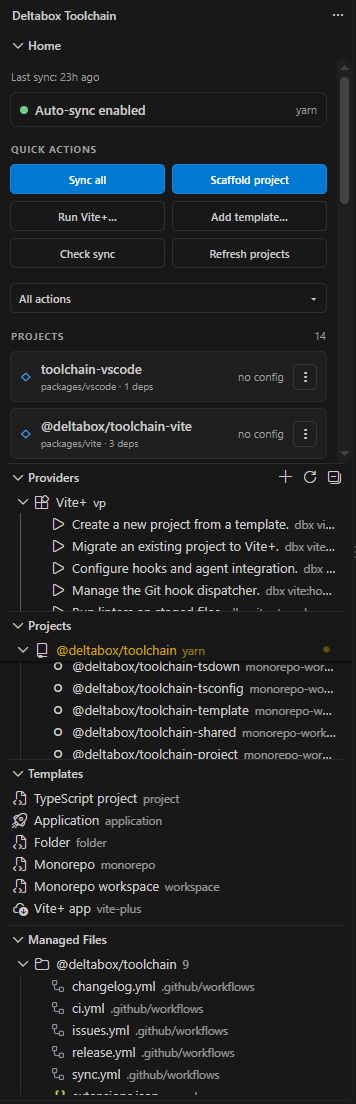
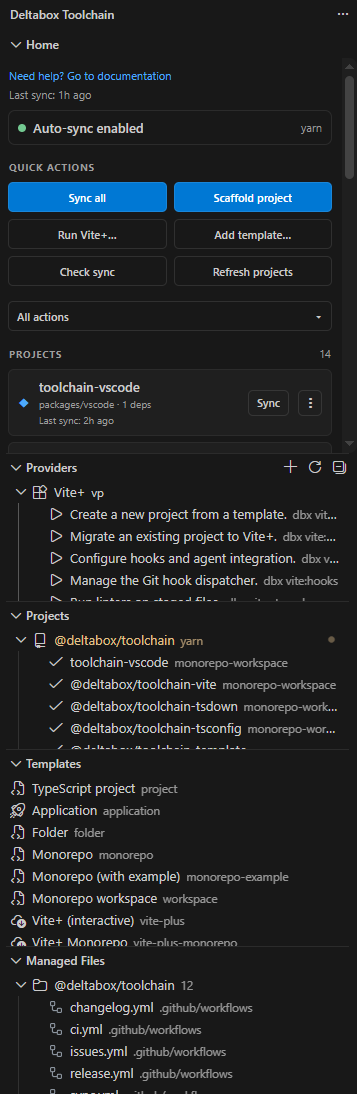
docs: update descriptions and vscode screenshot

diff --git a/apps/docs/.vitepress/config.ts b/apps/docs/.vitepress/config.ts
@@ -6,6 +6,8 @@ import llmstxt, { copyOrDownloadAsMarkdownButtons } from 'vitepress-plugin-llms'
 
 import pkg from '../../../package.json';
 
+const DESCRIPTION = "All-in-one development toolchain that let's you scaffold projects, generate and manage configs, tsconfigs, custom templates, syncing, changelogs, CI, Vite+, migrations, and more.";
+
 /** The prose `llms.txt` opens with, before the generated table of contents. */
 const LLMS_DETAILS = [
     '> If `https://toolchain.deltabox.studio` is unavailable, the same documentation is ' +
@@ -31,8 +33,7 @@ const LLMS_DETAILS = [
  */
 export default defineConfig({
     title: 'deltabox toolchain',
-    description:
-        'All-in-one toolchain: scaffold projects, manage configs, tsconfigs, changelogs and builds.',
+    description: DESCRIPTION,
     cleanUrls: true,
     // `/llms.txt` and `/llms-full.txt` are generated by the LLM plugin (not
     // VitePress pages), so the dead-link checker should ignore them.
@@ -51,10 +52,7 @@ export default defineConfig({
             llmstxt({
                 domain: 'https://toolchain.deltabox.studio',
                 title: 'deltabox toolchain',
-                description:
-                    'All-in-one, config-driven dev toolchain: one `dbx.config.ts` generates and ' +
-                    'manages tsconfigs, changelogs + release CI, Biome/Vite+ configs, VS Code ' +
-                    'settings, project scaffolding and migrations.',
+                description: DESCRIPTION,
                 details: LLMS_DETAILS,
             }) as any,
         ],

diff --git a/dbx.config.ts b/dbx.config.ts
@@ -28,7 +28,7 @@ export default defineConfig({
             homepage: 'https://toolchain.deltabox.studio',
             repo: 'https://github.com/deltabox-studio/toolchain',
             description:
-                'All-in-one, config-driven dev toolchain: scaffold projects, generate and manage configs, tsconfigs, syncing, changelogs and CI, run Vite+, and migrations.',
+                "All-in-one development toolchain that let's you scaffold projects, generate and manage configs, tsconfigs, custom templates, syncing, changelogs, CI, Vite+, migrations, and more.",
             nodeVersion: '22',
             packageManager: 'yarn',
             packageManagerVersion: '4.17.1',

diff --git a/src/cli/index.ts b/src/cli/index.ts
@@ -154,7 +154,7 @@ export function createCli(): Command {
     });
     program
         .name('dbx')
-        .description('All-in-one project toolchain: configs, tsconfigs, changelogs, scaffolding.')
+        .description('All-in-one project toolchain: configs, tsconfigs, changelogs, CI, templates, scaffolding, migrations.')
         .version(rootPkg.version, '-V, --version', 'Output the version number')
         .option('--log-level <level>', `Minimum log level (${LOG_LEVELS.join('|')}).`)
         .option('--no-color', 'Disable coloured output.')

diff --git a/README.md b/README.md
@@ -4,7 +4,7 @@
 [![tests](https://img.shields.io/github/actions/workflow/status/deltabox-studio/toolchain/ci.yml?label=tests&logo=github)](https://github.com/deltabox-studio/toolchain/actions/workflows/ci.yml)
 [![npm version](https://img.shields.io/npm/v/@deltabox/toolchain.svg?color=cb3837&label=npm)](https://www.npmjs.com/package/@deltabox/toolchain)
 
-All-in-one, config-driven dev toolchain: scaffold projects, generate and manage configs, tsconfigs, syncing, changelogs and CI, run Vite+, and migrations.
+All-in-one development toolchain that let's you scaffold projects, generate and manage configs, tsconfigs, custom templates, syncing, changelogs, CI, Vite+, migrations, and more.
 
 - Save and use templates (local/remote) so you never have to scaffold the same projects over and over again.
 - Generate config types, env variables, cli flags, markdown and JSON schemas, so your codebase stays consistent, validated and well-documented.
@@ -15,7 +15,7 @@ All-in-one, config-driven dev toolchain: scaffold projects, generate and manage 
 See the [list of features](#features).
 
 <div align="left">
-  <video controls>
+  <video width="1342" controls>
     <source src="./apps/docs/public/vscode-example.mp4" type="video/mp4">
   </video>
 </div>

diff --git a/packages/vscode/README.md b/packages/vscode/README.md
@@ -6,7 +6,7 @@
 
 Provides a sidebar for managing projects.
 
-All-in-one, config-driven dev toolchain: scaffold projects, generate and manage configs, tsconfigs, syncing, changelogs and CI, run Vite+, and migrations.
+All-in-one development toolchain that let's you scaffold projects, generate and manage configs, tsconfigs, custom templates, syncing, changelogs, CI, Vite+, migrations, and more.
 
 - Save and use templates (local/remote) so you never have to scaffold the same projects over and over again.
 - Generate config types, env variables, cli flags, markdown and JSON schemas, so your codebase stays consistent, validated and well-documented.
@@ -19,7 +19,7 @@ See the [list of features](https://github.com/deltabox-studio/toolchain#features
 See all the [commands](#commands) below.
 
 <div align="left">
-  <video controls>
+  <video width="1342" controls>
     <source src="https://toolchain.deltabox.studio/vscode-example.mp4" type="video/mp4">
   </video>
 </div>

diff --git a/apps/docs/guide/vscode.md b/apps/docs/guide/vscode.md
@@ -3,7 +3,7 @@
 The `deltabox toolchain` extension provides a sidebar for managing projects.
 
 <div align="center">
-  <video controls>
+  <video width="1342" controls>
     <source src="/vscode-example.mp4" type="video/mp4">
   </video>
 </div>
